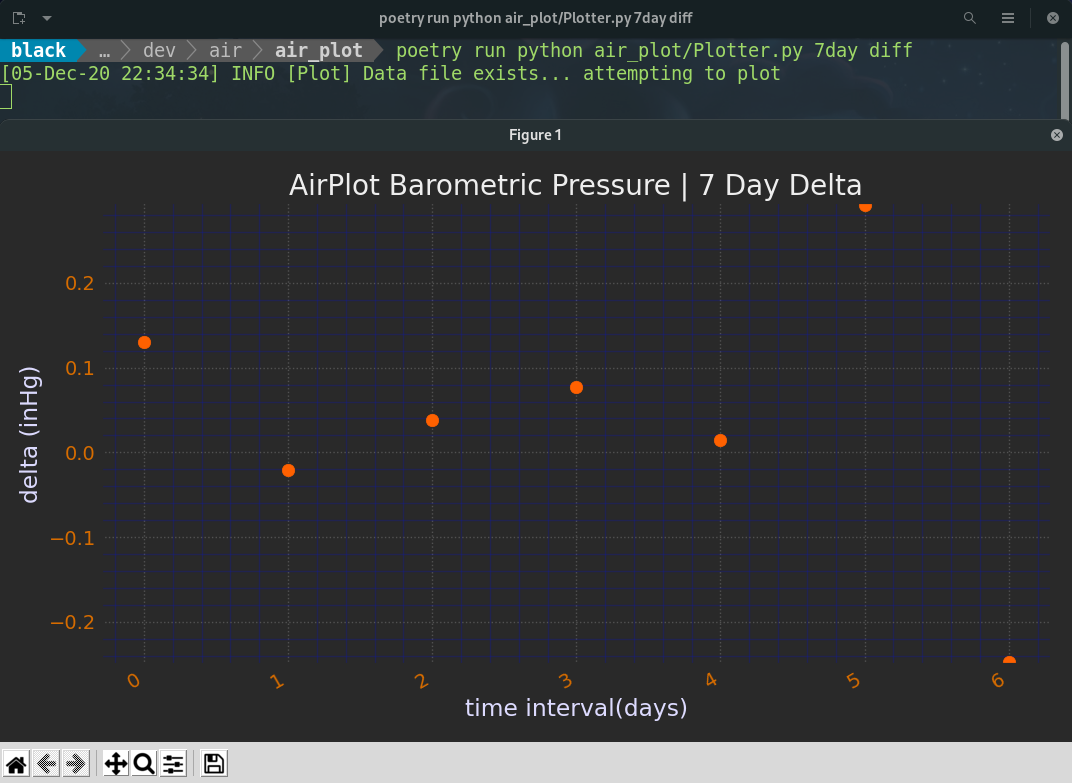
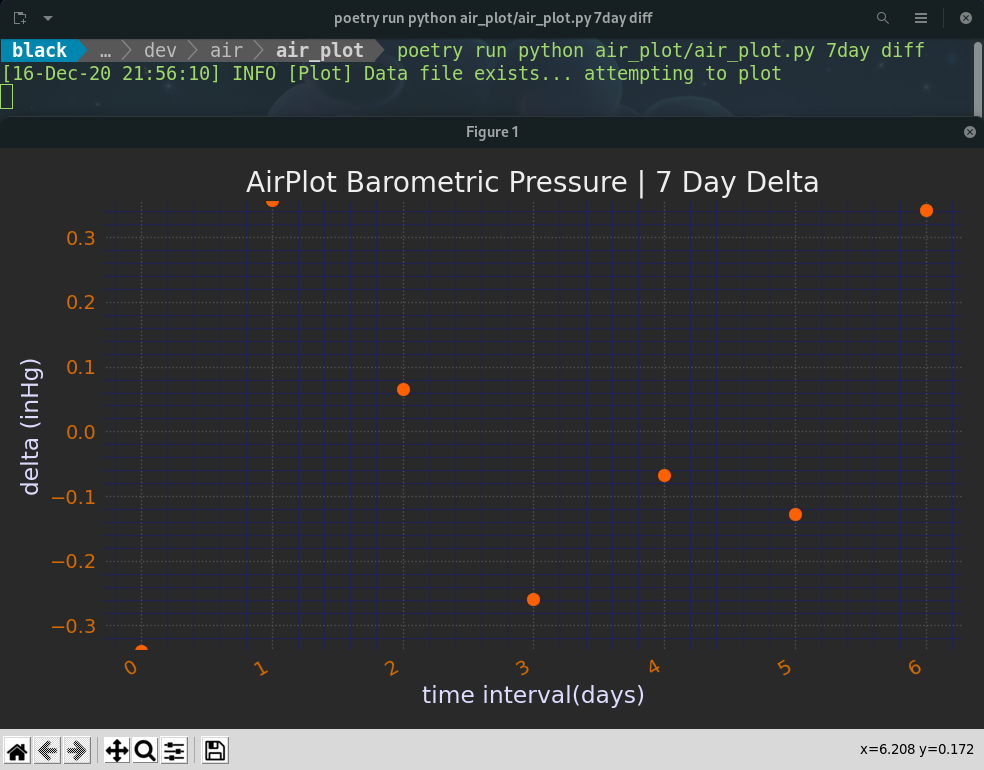
style(files): lowercase names, python convention
Update some files names to fall in line with python
convention.  Also add docs on where logs are generated
for the project.

diff --git a/air_plot/air_plot.py b/air_plot/air_plot.py
@@ -3,54 +3,54 @@
 import sys
 import ntpath
 import os.path
-from bin.AirSettings import File_Settings
-from bin.Plot import Plot
-from bin.PlotSettings import Plotter_Settings
+from bin.air_settings import file_settings
+from bin.plot import Plot
+from bin.plot_settings import plotter_settings
 
 
-class Plotter:
+class AirPlot:
     HOME_PATH = ntpath.dirname(__file__)
 
     def __init__(self):
         self.delta_graph = False
-        self.data_file = File_Settings['live_data']['data_file']
-        self.data_col1 = Plotter_Settings['data_col1']
-        self.data_col2 = Plotter_Settings['data_col2']
-        self.x_label = Plotter_Settings['hourly_data']['x_label']
-        self.y_label = Plotter_Settings['y_label']
-        self.table_title_interval = Plotter_Settings['live_data']['table_title_interval']
+        self.data_file = file_settings['live_data']['data_file']
+        self.data_col1 = plotter_settings['data_col1']
+        self.data_col2 = plotter_settings['data_col2']
+        self.x_label = plotter_settings['hourly_data']['x_label']
+        self.y_label = plotter_settings['y_label']
+        self.table_title_interval = plotter_settings['live_data']['table_title_interval']
 
         if len(sys.argv) == 2 or len(sys.argv) == 3:
             if self.diff() or self.diff2():
                 self.delta_graph = True
                 self.data_col1 = '{} Interval'.format(self.data_col1)
                 self.data_col2 = '{} Delta'.format(self.data_col2)
-                self.y_label = Plotter_Settings['diff_labels']['y_label']
-                self.x_label = Plotter_Settings['hourly_data']['diff_labels']['x_label']
+                self.y_label = plotter_settings['diff_labels']['y_label']
+                self.x_label = plotter_settings['hourly_data']['diff_labels']['x_label']
 
             if sys.argv[1] == 'live':
                 if self.diff():
-                    self.data_file = File_Settings['live_data']['diff_file']
+                    self.data_file = file_settings['live_data']['diff_file']
                     self.table_title_interval = '{} Delta'.format(self.table_title_interval)
                 elif self.diff2():
-                    self.data_file = File_Settings['live_data']['diff2_file']
+                    self.data_file = file_settings['live_data']['diff2_file']
                     self.table_title_interval = '{} 2nd Delta'.format(self.table_title_interval)
 
             elif sys.argv[1] == '48hr':
-                self.data_file = File_Settings['next_48_hours']['data_file']
-                self.table_title_interval = Plotter_Settings['next_48_hours']['table_title_interval']
+                self.data_file = file_settings['next_48_hours']['data_file']
+                self.table_title_interval = plotter_settings['next_48_hours']['table_title_interval']
                 if self.diff():
-                    self.data_file = File_Settings['next_48_hours']['diff_file']
+                    self.data_file = file_settings['next_48_hours']['diff_file']
                     self.table_title_interval = '{} Delta'.format(self.table_title_interval)
 
             elif sys.argv[1] == '7day':
-                self.data_file = File_Settings['next_7_days']['data_file']
-                self.table_title_interval = Plotter_Settings['next_7_days']['table_title_interval']
-                self.x_label = Plotter_Settings['daily_data']['x_label']
+                self.data_file = file_settings['next_7_days']['data_file']
+                self.table_title_interval = plotter_settings['next_7_days']['table_title_interval']
+                self.x_label = plotter_settings['daily_data']['x_label']
                 if self.diff():
-                    self.data_file = File_Settings['next_7_days']['diff_file']
+                    self.data_file = file_settings['next_7_days']['diff_file']
                     self.table_title_interval = '{} Delta'.format(self.table_title_interval)
-                    self.x_label = Plotter_Settings['daily_data']['diff_labels']['x_label']
+                    self.x_label = plotter_settings['daily_data']['diff_labels']['x_label']
 
     @staticmethod
     def diff():
@@ -81,5 +81,5 @@ class Plotter:
 
 
 if __name__ == '__main__':
-    air_plot = Plotter()
+    air_plot = AirPlot()
     air_plot.run_plot()

diff --git a/air_plot/bin/plot.py b/air_plot/bin/plot.py
@@ -6,7 +6,7 @@ import logging.config
 import pandas as pd
 import matplotlib.pyplot as plt
 from matplotlib.animation import FuncAnimation
-from bin.PlotSettings import default_plot_theme
+from bin.plot_settings import default_plot_theme
 
 
 class Plot:

diff --git a/air_plot/bin/air_settings.py b/air_plot/bin/air_settings.py
@@ -1,6 +1,6 @@
 #  Configuration for different plotting perspectives
 
-File_Settings = {
+file_settings = {
     'live_data': {
         'data_file': 'data/liveData.csv',
         'diff_file': 'data/differentials/liveDataDiff.csv',

diff --git a/air_plot/bin/plot_settings.py b/air_plot/bin/plot_settings.py
@@ -9,7 +9,7 @@ default_plot_theme = {
     'fig_title_color': '#EEEEEE'
 }
 
-Plotter_Settings = {
+plotter_settings = {
     'data_col1': 'Time',
     'data_col2': 'Pressure',
     'y_label': 'pressure (inHg)',

diff --git a/README.rst b/README.rst
@@ -1,8 +1,8 @@
 =================
-AirPlot
+air_plot
 =================
 
-A simple local barometric pressure measurement plotter using data from air_collect
+A simple local barometric pressure measurement plotter using data from air_collect.
 
 .. image:: images/Screenshot2Plotter.png
     :scale: 50
@@ -26,34 +26,38 @@ Introduction
 ------------
 This project functions for one purposes.
 
-1. To take collected and differential barometric pressure data and plot it on a basic Matplotlib GUI graph (Plotter.py).
+1. To take collected and differential barometric pressure data and plot it on a basic Matplotlib GUI graph (air_plot.py).
 
 The differential data in this project is supplied in order to gain insight into how quickly values are  changing in
 certain air properties for certain time intervals, which could be a point of interest.
 
-Plotter.py
-~~~~~~~~~~
-Plotter.py is a simple process that takes the CSV files produced by the ``air_collect`` project and plots them on
+air_plot.py
+~~~~~~~~~~~
+air_plot.py is a simple process that takes the CSV files produced by the ``air_collect`` project and plots them on
 a basic live update Matplotlib GUI graph.
 
 The plotter can be run, from within the air_plot directory, in the following ways depending on what time interval
 data you would like to plot::
 
-    poetry run python air_plot/Plotter.py live
-    poetry run python air_plot/Plotter.py 48hr
-    poetry run python air_plot/Plotter.py 7day
+    poetry run python air_plot/air_plot.py live
+    poetry run python air_plot/air_plot.py 48hr
+    poetry run python air_plot/air_plot.py 7day
 
 The commands above can take an additional 'diff' flag which will plot the differential data of that time interval::
 
-    poetry run python air_plot/Plotter.py live diff
-    poetry run python air_plot/Plotter.py 48hr diff
-    poetry run python air_plot/Plotter.py 7day diff
+    poetry run python air_plot/air_plot.py live diff
+    poetry run python air_plot/air_plot.py 48hr diff
+    poetry run python air_plot/air_plot.py 7day diff
 
 Finally, the live data has support for the 2nd order differential data::
 
-    poetry run python air_plot/Plotter.py live diff2
+    poetry run python air_plot/air_plot.py live diff2
+
+Logs
+-----
+Process logs are generated in the project's root directory's log folder.
 
 Commit Conventions
-----------------------
+-------------------
 Git commit conventions follows Conventional Commits message conventions explained in detail on their website
 (https://www.conventionalcommits.org)
